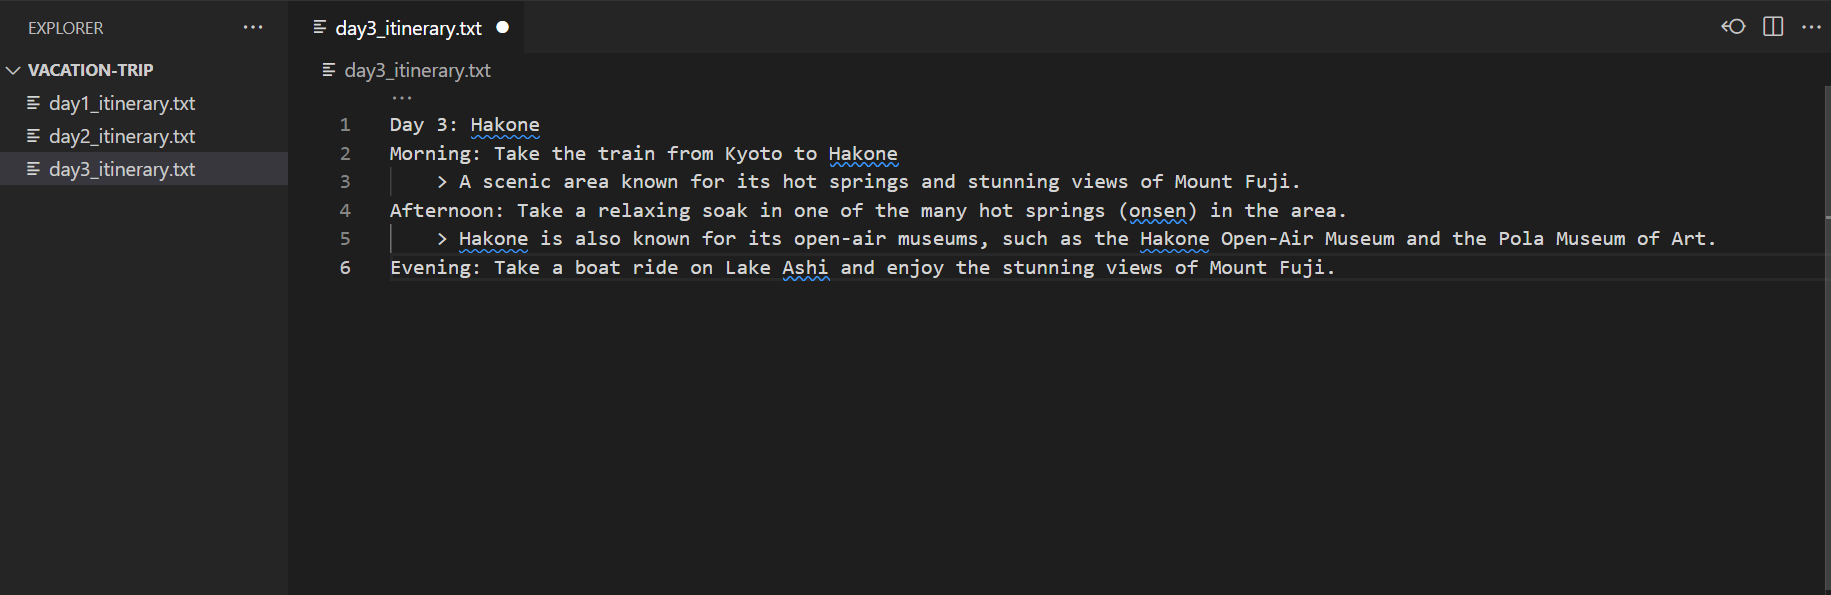
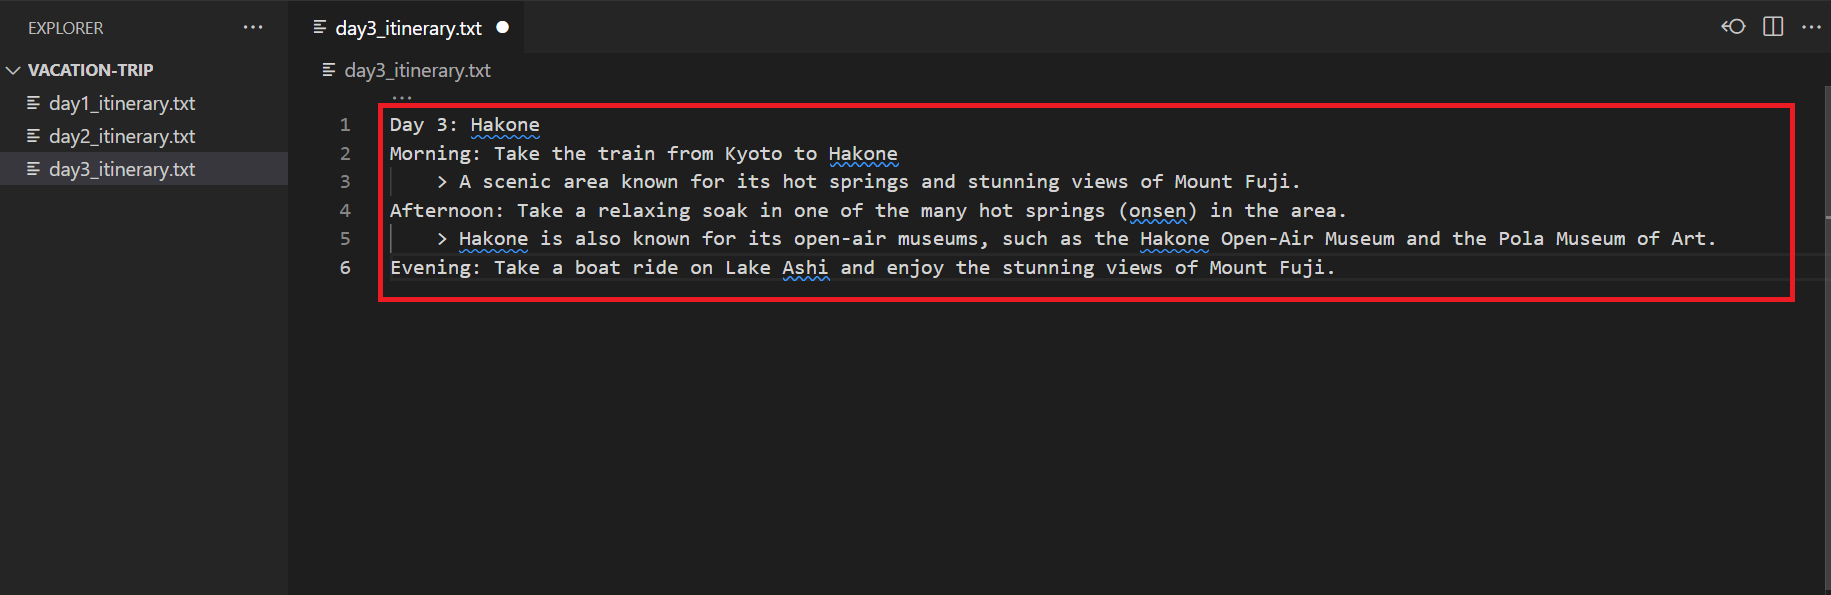
Updated text file images with red boxes

Changed region(s): [[0.1868, 0.484, 0.9962, 0.5143], [0.1868, 0.1513, 0.9962, 0.1815]]

diff --git a/Learning Git with Real-Life Applications/4. Collaboration as A Team/4._Merging_Different_Branches.md b/Learning Git with Real-Life Applications/4. Collaboration as A Team/4._Merging_Different_Branches.md
@@ -112,6 +112,19 @@
 4. Developer B obtained a list of food outlets using the internet. After searching for the required information, he decided to update the **day3_itinerary.txt** file.
 
     - Developer B update the file **day3_itinerary.txt** to include the food plan and proceeded to save.
+    - Updated with text (highlighted in red in picture below):
+        ```
+        ** Have breakfast before proceeding
+
+        # Food Plan
+        Morning:
+            > LOCATION: Gion Tokuya
+        Afternoon:
+            > LOCATION: Hakone Soba Okamotoya
+        Evening:
+            > LOCATION: TBD
+        ```
+    - Final text:
         ```
         Day 3: Hakone
         ** Have breakfast before proceeding
@@ -129,10 +142,9 @@
         Evening:
             > LOCATION: TBD
         ```
-        Changes made are highlighted.
+        The addition are **highlighted in red**.
         ![Modification of day 3 file](../images/4_4/4_4_day3_update_itinerary_devB_1.png)
 
-        ![Modification of day 3 file](../images/4_4/4_4_day3_update_itinerary_devB_2.png)
 
 5. After adding his update, Developer B decided to stage his changes, make a commit and push his changes to his remote branch `itinerary/delicacy`.
 
@@ -163,6 +175,19 @@
 6. While Developer B was creating a list of food outlets, Developer A was also working on a similar task. However, he chose to research the list through guide books and other source. Upon completion of his research, he decided to update the **day3_itinerary.txt** file in his `itinerary/food` branch.
 
     - Developer A update the file: **day3_itinerary.txt**
+    - Updated with text (highlighted in red in picture below):
+        ```
+        ** Have breakfast after train ride
+
+        # Food Plan
+        Breakfast:
+            > LOCATION: Tenzan
+        Lunch:
+            > LOCATION: Kaiseki Kotone
+        Dinner:
+            > LOCATION: Hakone Soba Okamotoya
+        ```
+    - Final text:
         ```
         Day 3: Hakone
         Morning: Take the train from Kyoto to Hakone
@@ -180,6 +205,8 @@
         Dinner:
             > LOCATION: Hakone Soba Okamotoya
         ```
+        The addition are **highlighted in red**.
+        ![Modification of day 3 file](../images/4_4/4_4_day3_update_itinerary_devA_1.png)
 
 7. Upon completion of his task, Developer A decided to stage his changes, make a commit. He subsequently pushed his changes to the `itinerary/food` branch
 

diff --git a/Learning Git with Real-Life Applications/4. Collaboration as A Team/3._Editing&Deleting_The_ Same_File.md b/Learning Git with Real-Life Applications/4. Collaboration as A Team/3._Editing&Deleting_The_ Same_File.md
@@ -45,7 +45,7 @@
         ![git branch itinerary switch](../images/4_3/4_3_git_pull_up_to_date.png)
 
 
-2. Developer B has learnt that the trip had to be cut short because of a change in their leave plan. Instead of the 4 days trip, the trip was cut short to 3 days. He decided to delete the  **day4_itinerary.txt** file. This change, however, was not made aware to Developer A.
+2. Developer B has learnt that the trip had to be cut short because of a change in their leave plan. Instead of the 4 days trip, the trip was cut short to 3 days. He decided to delete the  **day4_itinerary.txt** file, which he found to be empty. This change, however, was not made aware to Developer A.
 
     - Developer B checks the branches with `git branch -a`
         ```
@@ -76,9 +76,9 @@
         ![git branch itinerary switch](../images/4_3/4_3_git_pull_with_updates.png)
 
 
-3. Meanwhile, Developer A found a number of interesting activities and decided to add them to their day 4 plan in the **day4_itinerary.txt** file.
+3. Meanwhile, Developer A found a number of interesting activities. He found it to be suitable for their day 4 plan and added them in the **day4_itinerary.txt** file, which was empty.
 
-    - Developer A added modifications to the **day4_itinerary.txt** and saved it.
+    - Developer A added modifications to the **day4_itinerary.txt** and saved it. The changes are highlighted in red.
         ```
         Day 4: Hakone
         Morning: Take the train from Kyoto to Hakone
@@ -187,7 +187,7 @@
         ```
         ![Git commit resolve conflict](../images/4_3/4_3_git_commit_resolve_conflict_from_deleted_file.png)
 
-7. Developer B subsequently decided to transfer the new changes to the **day3_itinerary.txt**.
+7. Developer B subsequently decided to transfer the new changes to the **day3_itinerary.txt**, which was empty.
 
     - Added new changes to **day3_itinerary.txt**
         ```
